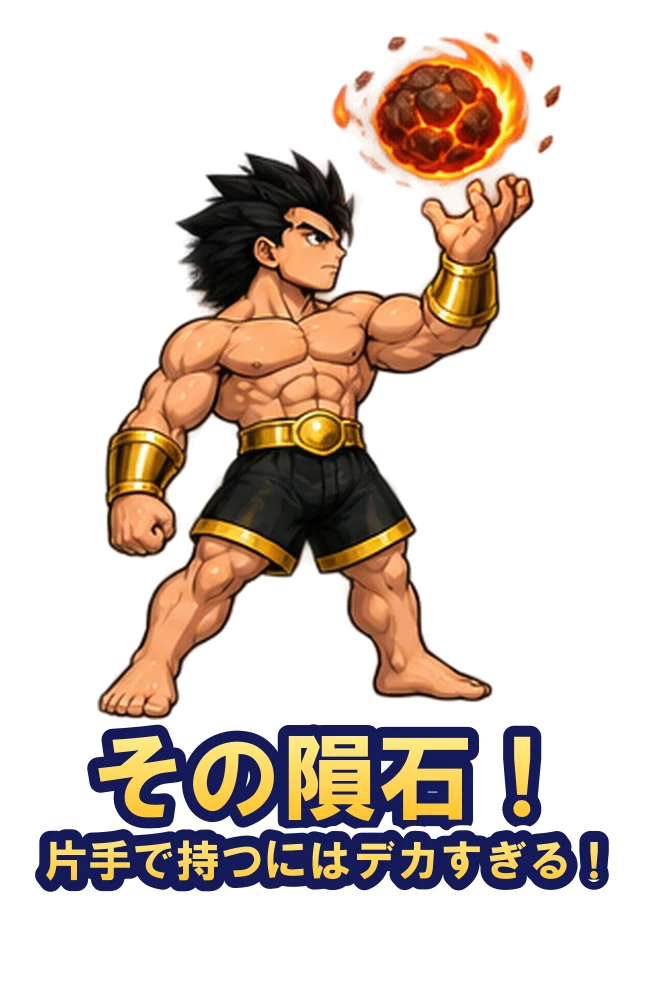
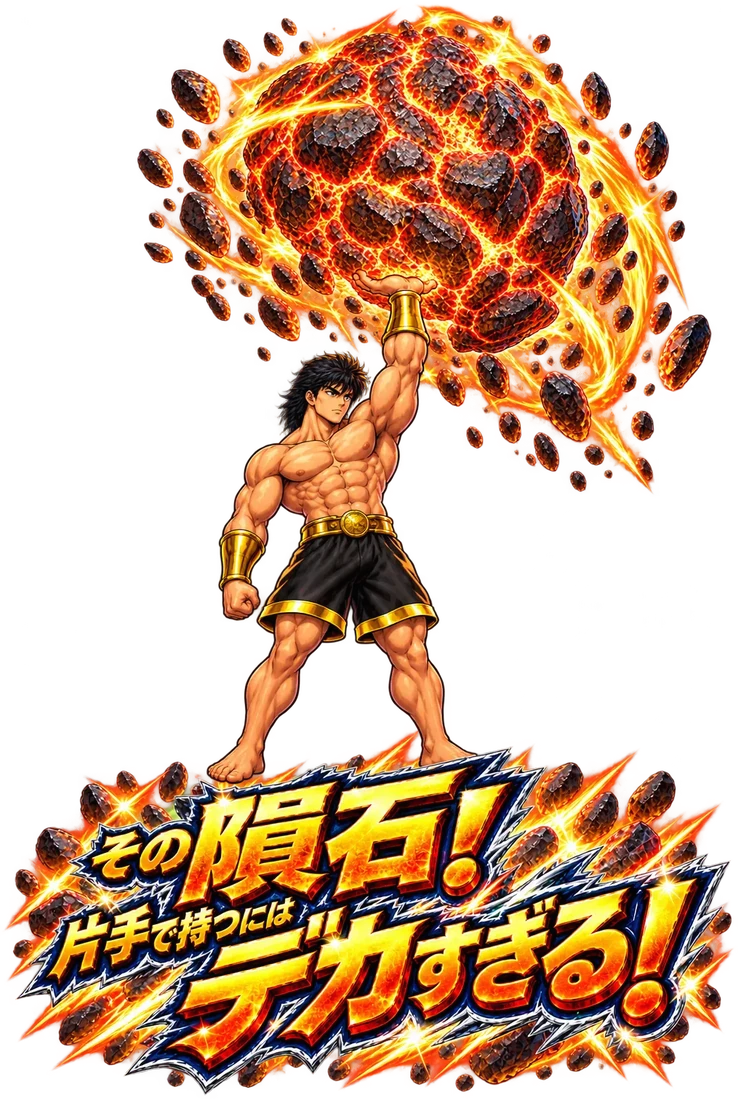
追加レア10体の登場カットインを修正版に差し替え
- 添付の修正版（キャラ＋テロップ）を source/cutin/rare_<ID>_cutin.webp に保管し、透明な余白を削って assets/cutin/cutin46〜55.webp に
- 画像パスに中身のハッシュ（?h=）を付けて、古い仮画像がキャッシュに残らないように
- 仲間の動作・攻撃・弾、既存レア5体の画像は変更なし

diff --git a/js/media.js b/js/media.js
@@ -1461,7 +1461,7 @@ const MEDIA = {
     },
     {
       "id": 46,
-      "image": "assets/cutin/cutin46.webp",
+      "image": "assets/cutin/cutin46.webp?h=a2d73126",
       "voice": "assets/voice/cheer46.wav",
       "line": "その隕石！片手で持つにはデカすぎる！",
       "duration": 3.735,
@@ -1473,12 +1473,12 @@ const MEDIA = {
       ],
       "origDuration": 3.798,
       "enabled": true,
-      "origImage": "（仮）build_rare10.py が 動作原稿 meteor.png から 作成",
+      "origImage": "source/cutin/rare_meteor_cutin.webp",
       "origVoice": "rare_meteor_appear.wav"
     },
     {
       "id": 47,
-      "image": "assets/cutin/cutin47.webp",
+      "image": "assets/cutin/cutin47.webp?h=5bd74e0d",
       "voice": "assets/voice/cheer47.wav",
       "line": "装備は一流！服装はパンイチ！",
       "duration": 3.84,
@@ -1490,12 +1490,12 @@ const MEDIA = {
       ],
       "origDuration": 4.056,
       "enabled": true,
-      "origImage": "（仮）build_rare10.py が 動作原稿 sniper.png から 作成",
+      "origImage": "source/cutin/rare_sniper_cutin.webp",
       "origVoice": "rare_sniper_appear.wav"
     },
     {
       "id": 48,
-      "image": "assets/cutin/cutin48.webp",
+      "image": "assets/cutin/cutin48.webp?h=73025b55",
       "voice": "assets/voice/cheer48.wav",
       "line": "大天使降臨！筋肉まで神々しい！",
       "duration": 3.5,
@@ -1507,12 +1507,12 @@ const MEDIA = {
       ],
       "origDuration": 3.554,
       "enabled": true,
-      "origImage": "（仮）build_rare10.py が 動作原稿 angel.png から 作成",
+      "origImage": "source/cutin/rare_angel_cutin.webp",
       "origVoice": "rare_angel_appear.wav"
     },
     {
       "id": 49,
-      "image": "assets/cutin/cutin49.webp",
+      "image": "assets/cutin/cutin49.webp?h=fc60b98a",
       "voice": "assets/voice/cheer49.wav",
       "line": "鋼の巨体！マンモス級のド迫力！",
       "duration": 3.93,
@@ -1524,12 +1524,12 @@ const MEDIA = {
       ],
       "origDuration": 4.002,
       "enabled": true,
-      "origImage": "（仮）build_rare10.py が 動作原稿 mammoth.png から 作成",
+      "origImage": "source/cutin/rare_mammoth_cutin.webp",
       "origVoice": "rare_mammoth_appear.wav"
     },
     {
       "id": 50,
-      "image": "assets/cutin/cutin50.webp",
+      "image": "assets/cutin/cutin50.webp?h=b1cc26bd",
       "voice": "assets/voice/cheer50.wav",
       "line": "太古の王者！鋼のボディで復活！",
       "duration": 4.35,
@@ -1541,12 +1541,12 @@ const MEDIA = {
       ],
       "origDuration": 4.416,
       "enabled": true,
-      "origImage": "（仮）build_rare10.py が 動作原稿 trex.png から 作成",
+      "origImage": "source/cutin/rare_trex_cutin.webp",
       "origVoice": "rare_trex_appear.wav"
     },
     {
       "id": 51,
-      "image": "assets/cutin/cutin51.webp",
+      "image": "assets/cutin/cutin51.webp?h=3678bc26",
       "voice": "assets/voice/cheer51.wav",
       "line": "長すぎる！刀も筋肉も規格外！",
       "duration": 4.24,
@@ -1558,12 +1558,12 @@ const MEDIA = {
       ],
       "origDuration": 4.426,
       "enabled": true,
-      "origImage": "（仮）build_rare10.py が 動作原稿 samurai.png から 作成",
+      "origImage": "source/cutin/rare_samurai_cutin.webp",
       "origVoice": "rare_samurai_appear.wav"
     },
     {
       "id": 52,
-      "image": "assets/cutin/cutin52.webp",
+      "image": "assets/cutin/cutin52.webp?h=488b5ad1",
       "voice": "assets/voice/cheer52.wav",
       "line": "細くてもムキムキ！鎌は超ド級！",
       "duration": 4.465,
@@ -1575,12 +1575,12 @@ const MEDIA = {
       ],
       "origDuration": 4.533,
       "enabled": true,
-      "origImage": "（仮）build_rare10.py が 動作原稿 reaper.png から 作成",
+      "origImage": "source/cutin/rare_reaper_cutin.webp",
       "origVoice": "rare_reaper_appear.wav"
     },
     {
       "id": 53,
-      "image": "assets/cutin/cutin53.webp",
+      "image": "assets/cutin/cutin53.webp?h=3d5ed22f",
       "voice": "assets/voice/cheer53.wav",
       "line": "頭脳も筋肉も！フルスペック！",
       "duration": 3.15,
@@ -1592,12 +1592,12 @@ const MEDIA = {
       ],
       "origDuration": 3.187,
       "enabled": true,
-      "origImage": "（仮）build_rare10.py が 動作原稿 engineer.png から 作成",
+      "origImage": "source/cutin/rare_engineer_cutin.webp",
       "origVoice": "rare_engineer_appear.wav"
     },
     {
       "id": 54,
-      "image": "assets/cutin/cutin54.webp",
+      "image": "assets/cutin/cutin54.webp?h=72ee22c1",
       "voice": "assets/voice/cheer54.wav",
       "line": "全身ダイヤ！硬さも強さも横綱級！",
       "duration": 5.265,
@@ -1609,12 +1609,12 @@ const MEDIA = {
       ],
       "origDuration": 5.354,
       "enabled": true,
-      "origImage": "（仮）build_rare10.py が 動作原稿 diamond.png から 作成",
+      "origImage": "source/cutin/rare_diamond_cutin.webp",
       "origVoice": "rare_diamond_appear.wav"
     },
     {
       "id": 55,
-      "image": "assets/cutin/cutin55.webp",
+      "image": "assets/cutin/cutin55.webp?h=8253cb80",
       "voice": "assets/voice/cheer55.wav",
       "line": "速すぎる！その巨体で音速突破！",
       "duration": 3.93,
@@ -1626,7 +1626,7 @@ const MEDIA = {
       ],
       "origDuration": 3.987,
       "enabled": true,
-      "origImage": "（仮）build_rare10.py が 動作原稿 jet.png から 作成",
+      "origImage": "source/cutin/rare_jet_cutin.webp",
       "origVoice": "rare_jet_appear.wav"
     }
   ],

diff --git a/index.html b/index.html
@@ -13,7 +13,7 @@
 <link rel="preconnect" href="https://fonts.googleapis.com">
 <link rel="preconnect" href="https://fonts.gstatic.com" crossorigin>
 <link href="https://fonts.googleapis.com/css2?family=M+PLUS+Rounded+1c:wght@500;800;900&display=swap" rel="stylesheet">
-<link rel="stylesheet" href="css/style.css?v=20261101a">
+<link rel="stylesheet" href="css/style.css?v=20261101b">
 </head>
 <body>
 <div id="app">
@@ -171,25 +171,25 @@
   <div id="rotate" class="rotate"><div class="phone"></div><p>よこむきに してね</p></div>
 </div>
 
-<script src="js/util.js?v=20261101a"></script>
-<script src="js/quiz.js?v=20261101a"></script>
-<script src="js/media.js?v=20261101a"></script>
-<script src="js/audio.js?v=20261101a"></script>
-<script src="js/media-audio.js?v=20261101a"></script>
-<script src="js/input.js?v=20261101a"></script>
-<script src="js/themes.js?v=20261101a"></script>
-<script src="js/assets.js?v=20261101a"></script>
-<script src="js/sprite-meta.js?v=20261101a"></script>
-<script src="js/sprites.js?v=20261101a"></script>
-<script src="js/hero.js?v=20261101a"></script>
-<script src="js/entities.js?v=20261101a"></script>
-<script src="js/level.js?v=20261101a"></script>
-<script src="js/chara-data.js?v=20261101a"></script>
-<script src="js/rare10-data.js?v=20261101a"></script>
-<script src="js/chara.js?v=20261101a"></script>
-<script src="js/render.js?v=20261101a"></script>
-<script src="js/cutin.js?v=20261101a"></script>
-<script src="js/ui.js?v=20261101a"></script>
-<script src="js/game.js?v=20261101a"></script>
+<script src="js/util.js?v=20261101b"></script>
+<script src="js/quiz.js?v=20261101b"></script>
+<script src="js/media.js?v=20261101b"></script>
+<script src="js/audio.js?v=20261101b"></script>
+<script src="js/media-audio.js?v=20261101b"></script>
+<script src="js/input.js?v=20261101b"></script>
+<script src="js/themes.js?v=20261101b"></script>
+<script src="js/assets.js?v=20261101b"></script>
+<script src="js/sprite-meta.js?v=20261101b"></script>
+<script src="js/sprites.js?v=20261101b"></script>
+<script src="js/hero.js?v=20261101b"></script>
+<script src="js/entities.js?v=20261101b"></script>
+<script src="js/level.js?v=20261101b"></script>
+<script src="js/chara-data.js?v=20261101b"></script>
+<script src="js/rare10-data.js?v=20261101b"></script>
+<script src="js/chara.js?v=20261101b"></script>
+<script src="js/render.js?v=20261101b"></script>
+<script src="js/cutin.js?v=20261101b"></script>
+<script src="js/ui.js?v=20261101b"></script>
+<script src="js/game.js?v=20261101b"></script>
 </body>
 </html>

diff --git a/tools/build_rare10.py b/tools/build_rare10.py
@@ -289,12 +289,23 @@ def hero_height():
 
 
 def make_cutin(n, slug, line, pose, log):
-    """仮の 登場カットイン（本人の ポーズ ＋ テロップ）。本物が あれば そちらを つかう"""
-    real = os.path.join(REPO, "source", "cutin", f"rare_{slug}_cutin.png")
+    """登場カットイン。source/cutin/rare_<slug>_cutin.(webp|png)（キャラ＋テロップ入りの 本番画像）が あれば それを つかう。
+    なければ 仮の 画像（本人の ポーズ ＋ テロップ）"""
     dst = os.path.join(REPO, "assets", "cutin", f"cutin{n}.webp")
-    if os.path.exists(real):
-        Image.open(real).convert("RGBA").save(dst, "WEBP", quality=88, method=6)
-        return
+    for ext in ("webp", "png"):
+        real = os.path.join(REPO, "source", "cutin", f"rare_{slug}_cutin.{ext}")
+        if os.path.exists(real):
+            im = Image.open(real).convert("RGBA")
+            # まわりの 透明な よはくを けずる（よはくで 本体・テロップが 小さく ならない ように）。たてよこの わりあいは そのまま
+            bb = im.getchannel("A").point(lambda v: 255 if v > 8 else 0).getbbox()
+            pad = 6
+            im = im.crop((max(0, bb[0] - pad), max(0, bb[1] - pad), min(im.width, bb[2] + pad), min(im.height, bb[3] + pad)))
+            s = min(1.0, 1100 / max(im.size))
+            if s < 1:
+                im = im.resize((round(im.width * s), round(im.height * s)), Image.LANCZOS)
+            im.save(dst, "WEBP", quality=90, method=6)
+            log.append(f"{slug}: 登場カットイン ← source/cutin/rare_{slug}_cutin.{ext}（よはくを けずって {im.width}×{im.height}）")
+            return
     W, H = 660, 1000
     canvas = Image.new("RGBA", (W, H), (0, 0, 0, 0))
     p = Image.fromarray(pose)

diff --git a/tools/build_media.py b/tools/build_media.py
@@ -328,9 +328,14 @@ def main():
         cap = slug[0].upper() + slug[1:]
         rel, meta = put_voice(f"rare_{slug}_appear.wav", f"cheer{n:02d}")
         lead_wav(os.path.join(REPO, rel))
-        media["cheers"].append({"id": n, "image": f"assets/cutin/cutin{n:02d}.webp", "voice": rel, "line": line, "duration": meta["duration"], "rare": True,
+        # 画像を さしかえても ブラウザに ふるい 画像が のこらない ように、中身から きまる ?h= を つける
+        img_rel = f"assets/cutin/cutin{n:02d}.webp"
+        with open(os.path.join(REPO, img_rel), "rb") as fp:
+            img_hash = hashlib.sha1(fp.read()).hexdigest()[:8]
+        real = [f"rare_{slug}_cutin.{e}" for e in ("webp", "png") if os.path.exists(os.path.join(REPO, "source", "cutin", f"rare_{slug}_cutin.{e}"))]
+        media["cheers"].append({"id": n, "image": f"{img_rel}?h={img_hash}", "voice": rel, "line": line, "duration": meta["duration"], "rare": True,
                                 "rareName": rname, "trim": meta["trim"], "origDuration": meta["origDuration"], "enabled": True,
-                                "origImage": f"（仮）build_rare10.py が 動作原稿 {slug}.png から 作成", "origVoice": f"rare_{slug}_appear.wav"})
+                                "origImage": f"source/cutin/{real[0]}" if real else f"（仮）build_rare10.py が 動作原稿 {slug}.png から 作成", "origVoice": f"rare_{slug}_appear.wav"})
         jrel, jmeta = put_voice(f"ally_{slug}_join_character.wav", f"ally_{slug}_join_character")
         lead_wav(os.path.join(REPO, jrel))
         media["voice"][f"allyJoin{cap}"] = {"src": jrel, "orig": f"ally_{slug}_join_character.wav", **jmeta}
